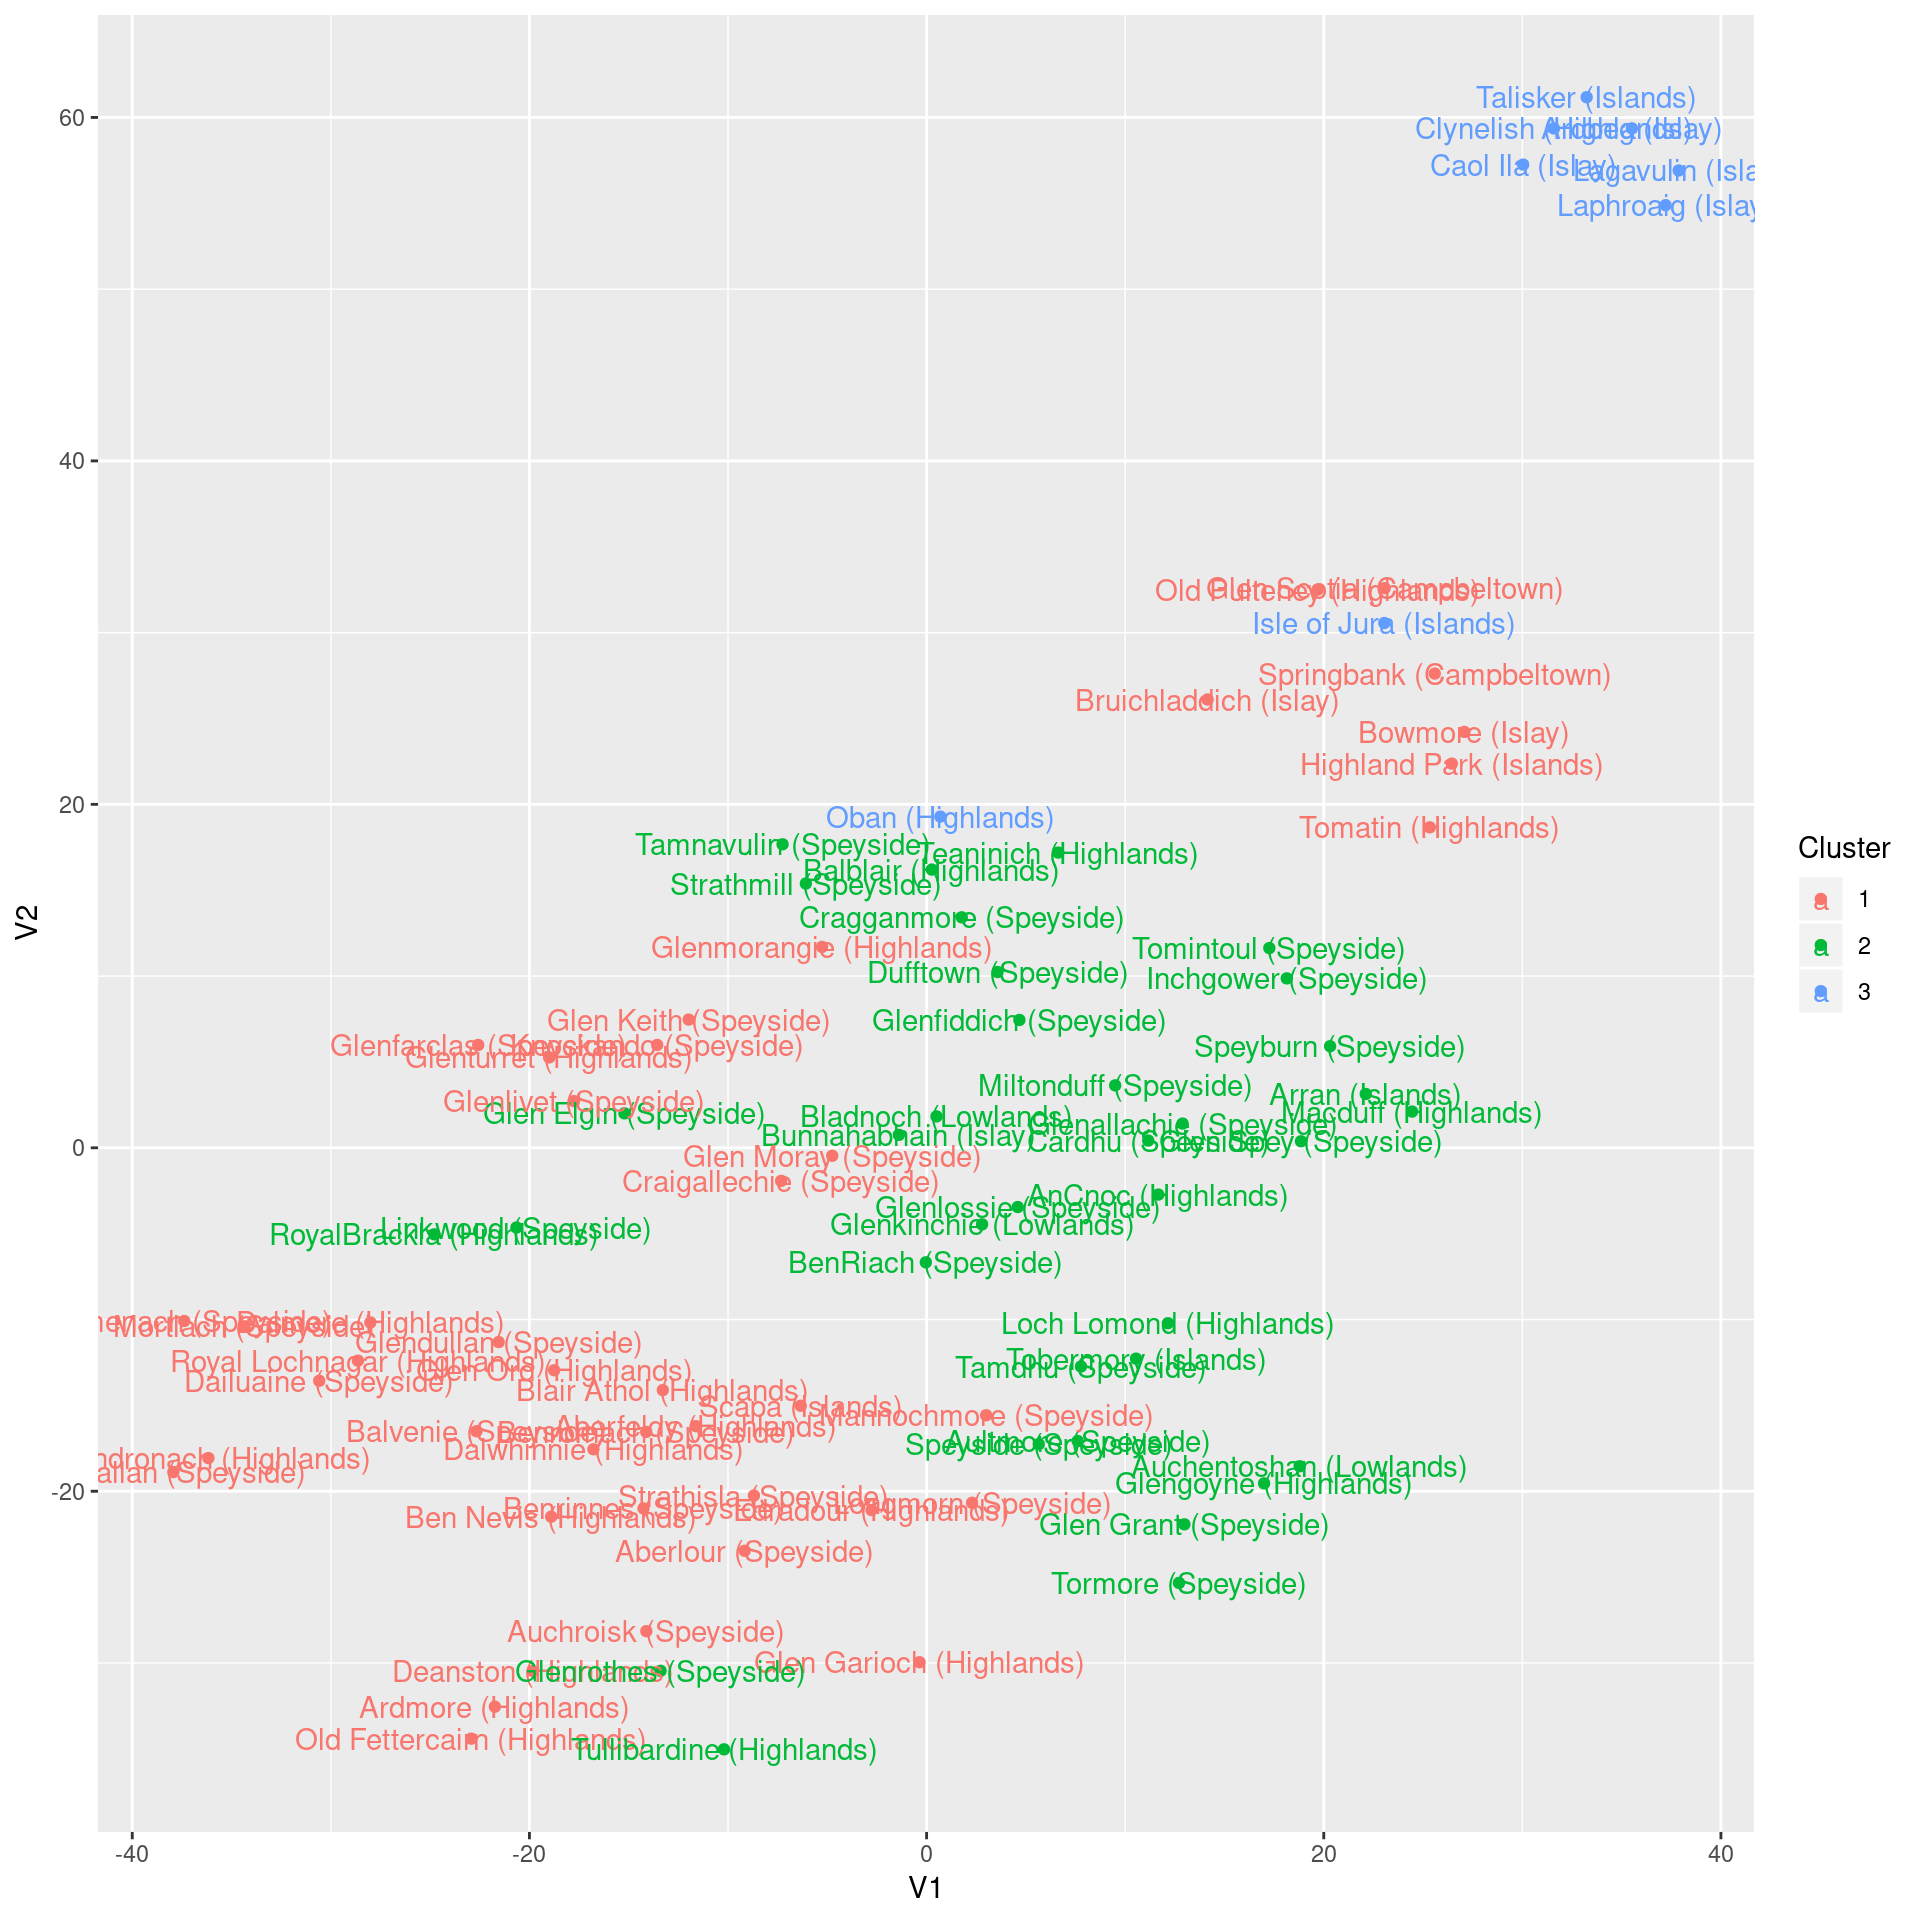
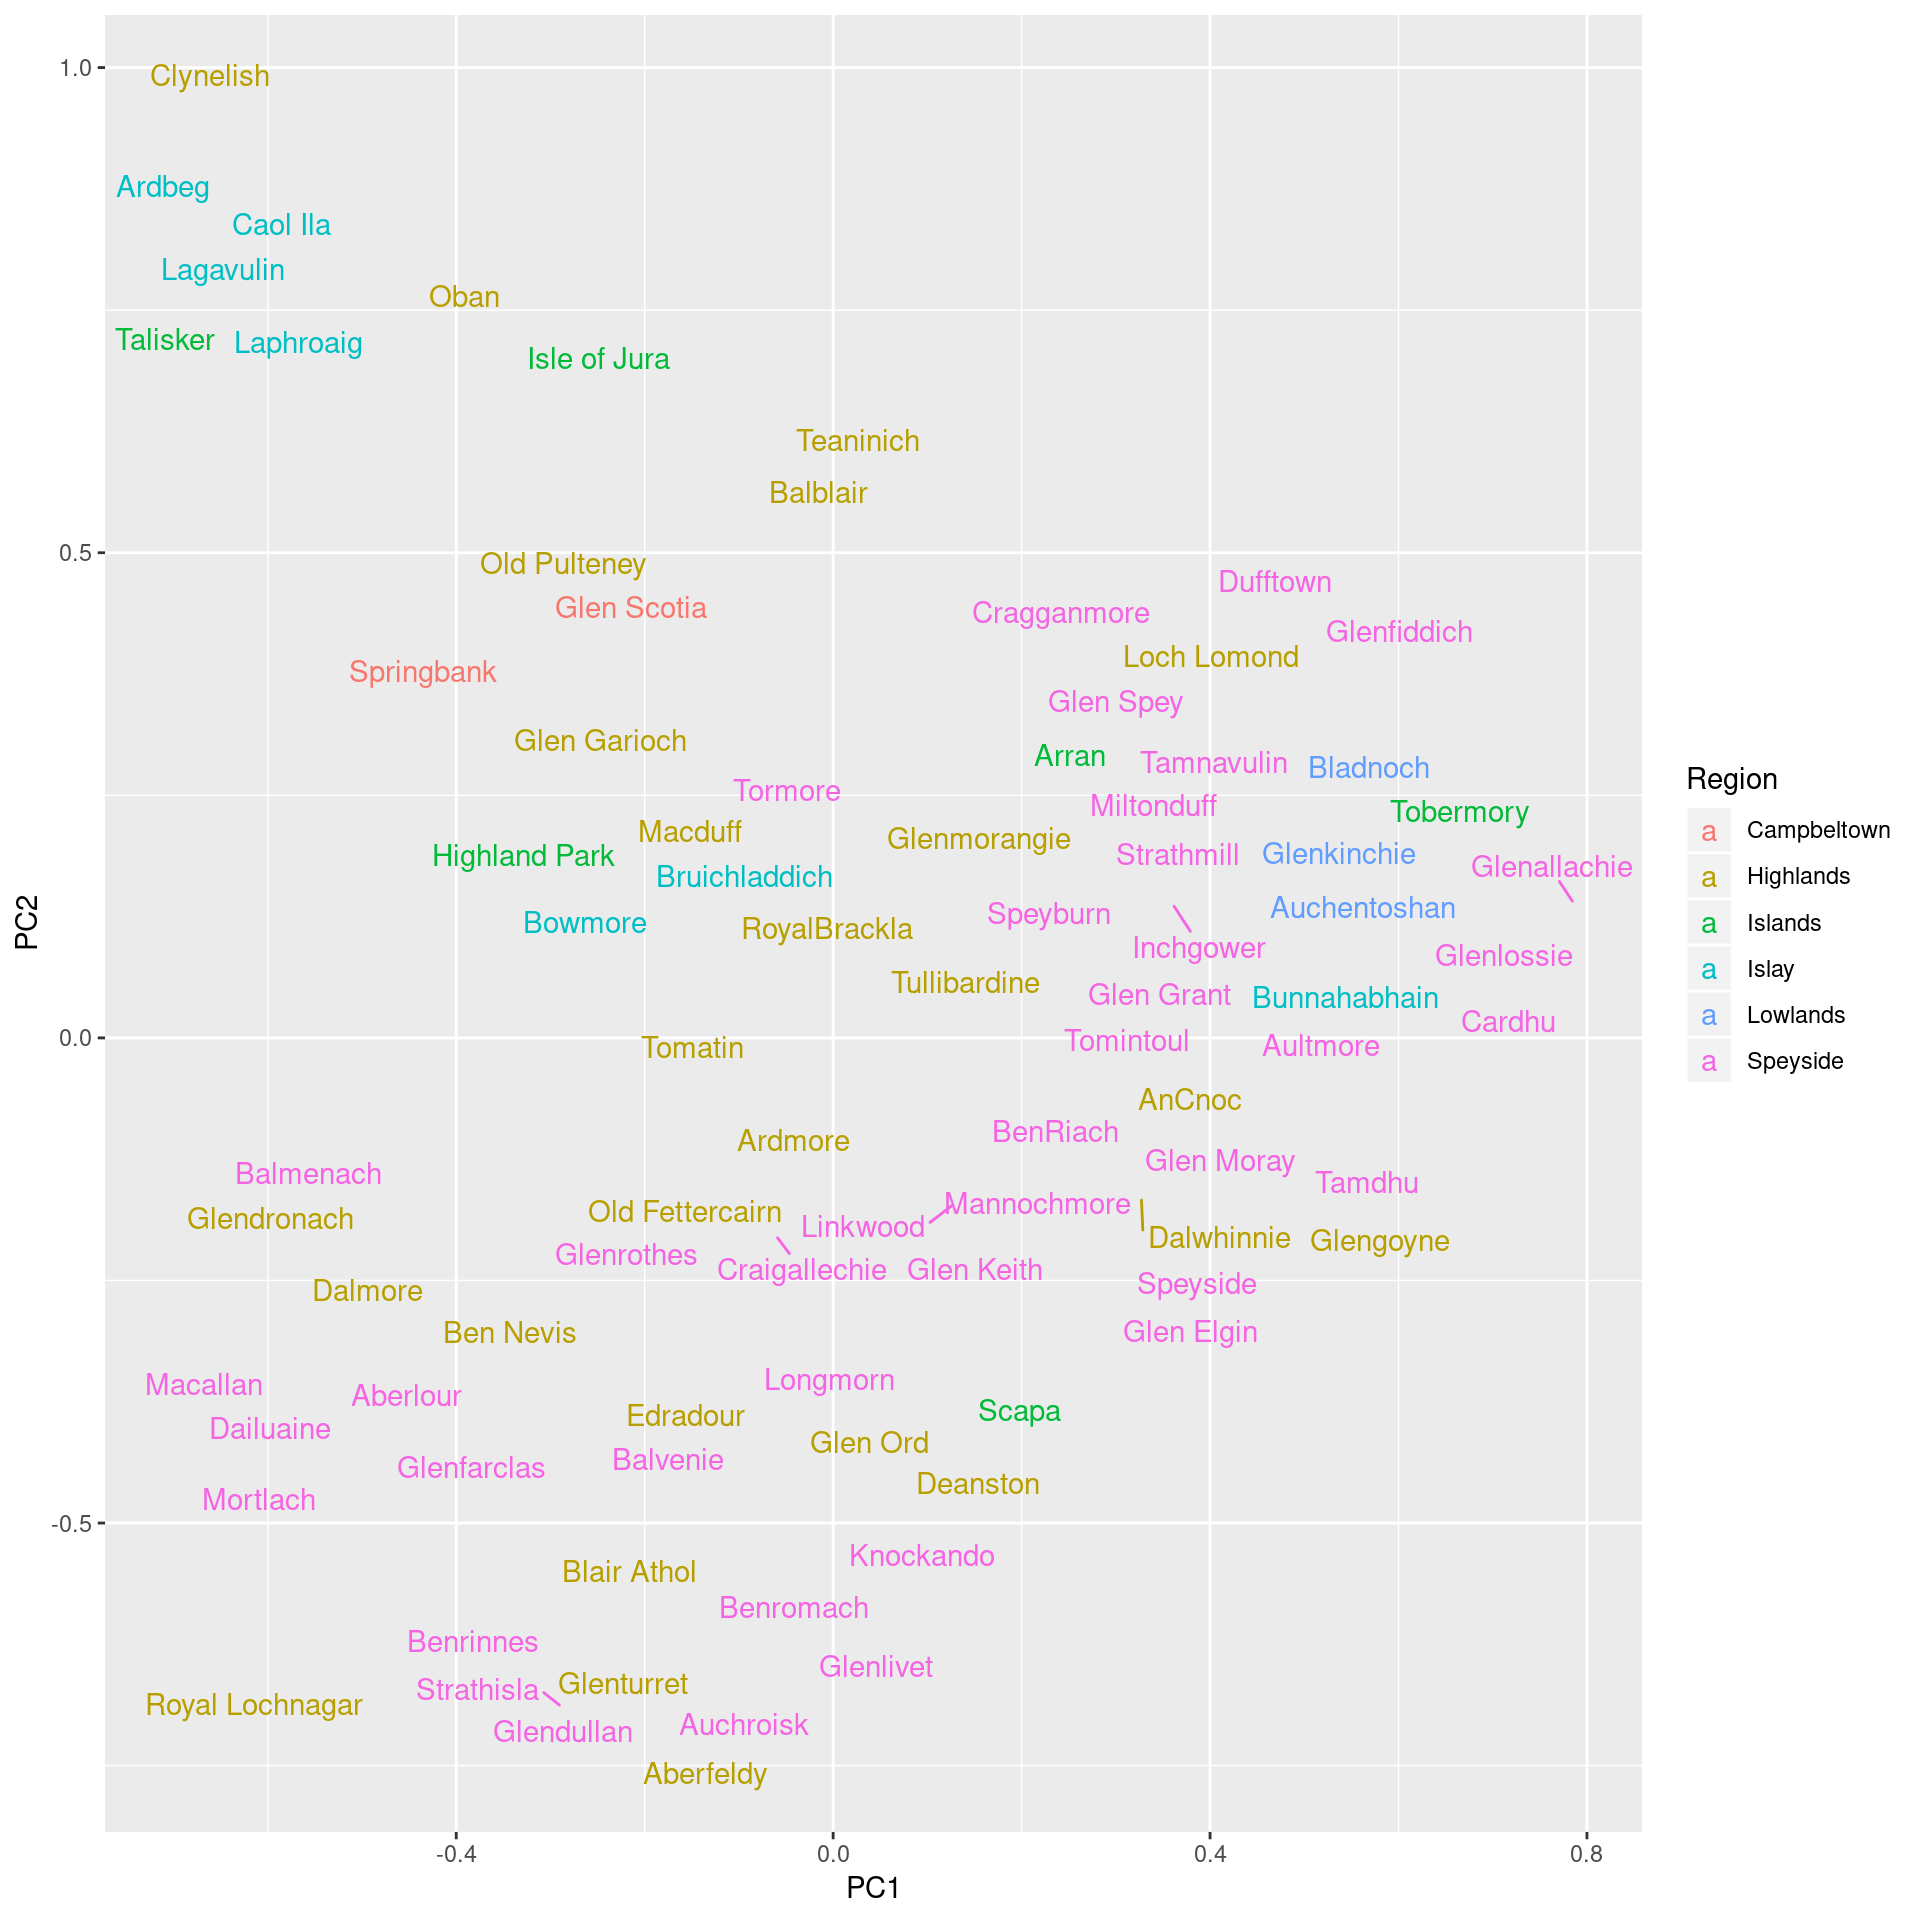
update on dim reduction

diff --git a/content/post/machine-learning/dimensionality-reduction.html b/content/post/machine-learning/dimensionality-reduction.html
@@ -25,8 +25,7 @@ thumbnail: "/post/machine-learning/whiskey-twilight-zone.png"
 <div id="loading-a-whiskey-data-set" class="section level2">
 <h2>Loading a whiskey data set</h2>
 <p>I have previously used a data set describing the characteristics of whiskeys to <a href="/post/data-visualization/radar-plot/">draw radar plots</a>. Here, we will the whiskey data set to identify how different dimensionality reduction techniques perform on this data set.</p>
-<pre class="r"><code>set.seed(1234) # reproducibility
-library(RCurl)
+<pre class="r"><code>library(RCurl)
 # load data as character
 f &lt;- getURL(&#39;https://www.datascienceblog.net/data-sets/whiskies.csv&#39;)
 # read table from text connection
@@ -106,7 +105,7 @@ p</code></pre>
 <p>PCA computes a rotation matrix <span class="math inline">\(W \in \mathbb{R}^{p \times p}\)</span> from the matrix of features <span class="math inline">\(X \in \mathbb{R}^{N \times p}\)</span>. <span class="math inline">\(W\)</span> can be understood as a mapping function that transforms the observations in <span class="math inline">\(X\)</span> to a rotated space. The coordinates of observations in <span class="math inline">\(X\)</span> are transformed to their new form, <span class="math inline">\(Z\)</span>, via</p>
 <p><span class="math display">\[Z = XW\,.\]</span></p>
 <p>The rotation matrix <span class="math inline">\(W\)</span> is constructed through orthogonal linear transformations. Each of these transformations is performed such that it maximizes the variance in the unexplained variance in the data, resulting in individual <em>principal components</em>, which provide a new coordinate system.</p>
-<p>The reason why PCA is so popular is that it is very interpretable.</p>
+<p>One of the reasons why PCA is so popular is that it is a very interpretable method. Each principal component (PC) is well-defined as we know that it is a dimension orthogonal to the other dimensions. Since PCA maximizes the variance with each PC, we can obtain the variance that is explained by each PC in order to select an appropriate number of dimensions.</p>
 <div id="results-of-pca" class="section level3">
 <h3>Results of PCA</h3>
 <p>Using PCA, I would assign three clusters to the data:</p>
@@ -159,11 +158,35 @@ print(cluster.df)</code></pre>
 <p>In KPCA, observations are transformed to a kernel matrix via</p>
 <p><span class="math display">\[K = k(x,y) = \phi(x)^T \phi(y)\]</span></p>
 <p>where <span class="math inline">\(k(x,y)\)</span> is the kernel function for observations <span class="math inline">\(x\)</span> and <span class="math inline">\(y\)</span> and <span class="math inline">\(\phi\)</span> is the corresponding function that maps the observations into reproducing kernel Hilbert space and does not need to be explicitly computed due to the <em>kernel trick</em>. According to the kernel trick, we just need to compute the kernel function.</p>
+<div id="using-kpca-in-r" class="section level3">
+<h3>Using KPCA in R</h3>
+<p>The <code>kpca</code> is made available through the <code>kernlab</code> package. By default, the radial basis function kernel is used for matrix input. It is defined by</p>
+<p><span class="math display">\[K (x, y) = \exp \left(- \frac{-||x − t||^2}{2 \sigma^2}\right)\]</span></p>
+<p>where <span class="math inline">\(\sigma\)</span> is the inverse kernel width.</p>
+<pre class="r"><code>library(kernlab) # for kpca function
+# use the default of sigma = 0.1 because it works well
+pca.k &lt;- kpca(as.matrix(data), kpar = list(sigma = 0.1))
+plot(pca.k@eig) # eigenvalues</code></pre>
+<p><img src="/post/machine-learning/dimensionality-reduction_files/figure-html/unnamed-chunk-6-1.png" width="672" /></p>
+<pre class="r"><code># select 20 dimensions for prediction according to eigenvalues
+n.dim.model &lt;- 20
+pc &lt;- pca.k@pcv</code></pre>
+<p>Let us plot the data:</p>
+<pre class="r"><code>library(ggrepel) # for geom_text_repel
+kpca.df &lt;- data.frame(&quot;Label&quot; = df$Distillery, &quot;Region&quot; = df$Region,
+                      &quot;PC1&quot; = pc[,1], &quot;PC2&quot; = pc[,2])
+ggplot(kpca.df, aes(label = Label, x = PC1, y = PC2, color = Region)) + 
+    geom_text_repel()</code></pre>
+<p><img src="/post/machine-learning/dimensionality-reduction_files/figure-html/unnamed-chunk-7-1.png" width="960" /></p>
+<p>In terms of the visualization, the results are similar to what we obtained with conventional PCA. The whiskeys from Islay are well-separated and we can see a cluster of Speyside whiskeys, while the Highlands whiskeys are rather spread throughout.</p>
+<p>A disdavantage of KPCA is that you need to deal with the hyperparameters of the kernel functions, which should be tuned in accordance with the data. Moreover, KPCA is not as interpretable as PCA because it is not possible to determine how much variance is explained by individual dimensions.</p>
+</div>
 </div>
 <div id="t-sne" class="section level2">
 <h2>t-SNE</h2>
 <p>t-SNE can be performed in the following way:</p>
 <pre class="r"><code>library(Rtsne)
+set.seed(1234) # reproducibility
 tsne &lt;- Rtsne(data, dims = 2, perplexity = 5)
 t.df &lt;- as.data.frame(tsne$Y)
 colnames(t.df) &lt;- c(&quot;V1&quot;, &quot;V2&quot;)
@@ -171,7 +194,7 @@ t.df &lt;- cbind(t.df, Cluster = factor(cl$clustering))
 t.df$Distillery &lt;- rownames(t.df)
 ggplot(t.df, aes(x = V1, y = V2, color = Cluster, label = Distillery)) +
     geom_point() + geom_text()</code></pre>
-<p><img src="/post/machine-learning/dimensionality-reduction_files/figure-html/unnamed-chunk-6-1.png" width="960" /></p>
+<p><img src="/post/machine-learning/dimensionality-reduction_files/figure-html/unnamed-chunk-8-1.png" width="960" /></p>
 <p>The result is a bit more clearer with t-SNE than with PCA and the two dimensions have slightly different interpretations than with PCA:</p>
 <ul>
 <li>V1 seems to indicate how balanced/intense the taste is. The outliers here are the smoky Islay whiskeys on the left (e.g. Lagavulin) as well as some of the richer Highland whiskeys on the right (e.g. Macallan). The whiskeys in the middle such as Glenfiddich have a very balanced taste profile.</li>
@@ -211,6 +234,7 @@ select.k &lt;- function(K, training.data, test.data, labels, test.labels) {
     k.sel &lt;- K[which.max(performance)]
     return(k.sel)
 }
+set.seed(1234) # reproducibility
 samp.train &lt;- sample(nrow(data), nrow(data)*0.50) # 50 % for training
 df.train &lt;- data[samp.train,,]
 # 25% for validation
@@ -222,13 +246,14 @@ df.val &lt;- data[samp.val, ]</code></pre>
 <pre class="r"><code># PCA on training data
 # NB: scale is FALSE since all variables are on the same scale
 pca &lt;- prcomp(df.train, retx=TRUE, center = TRUE, scale = FALSE) 
+# find explained variance per PC:
 expl.var &lt;- round(pca$sdev^2/sum(pca$sdev^2)*100)
 var.df &lt;- data.frame(&quot;N_dim&quot; = seq_along(expl.var), &quot;Cum_Var&quot; = cumsum(expl.var))
 # cumulative explained variance:
 print(t(var.df))</code></pre>
 <pre><code>##         [,1] [,2] [,3] [,4] [,5] [,6] [,7] [,8] [,9] [,10] [,11] [,12]
 ## N_dim      1    2    3    4    5    6    7    8    9    10    11    12
-## Cum_Var   24   45   57   66   74   81   87   91   94    96    98    99</code></pre>
+## Cum_Var   22   41   52   63   72   79   85   90   94    97    99   100</code></pre>
 <pre class="r"><code># select 3 dimensions (&gt; 50% variance is sufficient)
 n.dims &lt;- 3
 # transform all data using PCA projection from training data
@@ -248,7 +273,7 @@ test.preds.pca &lt;- knn(train = df.train.p, test = df.test.p,
 accuracy.pca.knn &lt;- get.accuracy(test.preds.pca, df[samp.test, &quot;Region&quot;])
 print(paste0(&quot;PCA+KNN accuracy for k = &quot;, k.sel.pca, &quot; is: &quot;, 
              round(accuracy.pca.knn, 3)))</code></pre>
-<pre><code>## [1] &quot;PCA+KNN accuracy for k = 4 is: 0.429&quot;</code></pre>
+<pre><code>## [1] &quot;PCA+KNN accuracy for k = 9 is: 0.571&quot;</code></pre>
 <p>Let us investigate whether the model that uses PCA outperforms the model based on the raw data:</p>
 <pre class="r"><code># compare with accuracy of non-PCA model
 k.sel &lt;- select.k(K, df.train, df.val, df[samp.train, &quot;Region&quot;], 
@@ -258,8 +283,8 @@ test.preds &lt;- knn(train = df.train, test = df.test,
 accuracy.knn &lt;- get.accuracy(test.preds, df[samp.test, &quot;Region&quot;])
 print(paste0(&quot;KNN accuracy for k = &quot;, k.sel, &quot; is: &quot;,
              round(accuracy.knn, 3)))</code></pre>
-<pre><code>## [1] &quot;KNN accuracy for k = 10 is: 0.476&quot;</code></pre>
-<p>So, using <span class="math inline">\(k\)</span>-nearest neighbors, PCA does not seem to boost the prediction accuracy for this data set. This is because there are few features to begin with, so the dimensionality reduction does not help much. Moreover, there are few low-variance features in the data set (e.g. <code>Tobacco</code> or <code>Malty</code>):</p>
+<pre><code>## [1] &quot;KNN accuracy for k = 7 is: 0.524&quot;</code></pre>
+<p>So, using <span class="math inline">\(k\)</span>-nearest neighbors, PCA does indeem seem to boost the prediction accuracy for this data set although there are few features to begin with. However, there are some low-variance features in the data set (e.g. <code>Tobacco</code> or <code>Malty</code>):</p>
 <pre class="r"><code># variances of whiskeys characteristics
 print(diag(var(data)))</code></pre>
 <pre><code>##      Body Sweetness     Smoky Medicinal   Tobacco     Honey     Spicy 
@@ -288,8 +313,12 @@ test.preds.pca &lt;- knn(train = df.train.p, test = df.test.p,
 accuracy.pca.knn &lt;- get.accuracy(test.preds.pca, labels[samp.test])
 print(paste0(&quot;PCA+KNN accuracy for k = &quot;, k.sel.pca, &quot; is: &quot;, 
              round(accuracy.pca.knn, 3)))</code></pre>
-<pre><code>## [1] &quot;PCA+KNN accuracy for k = 18 is: 0.429&quot;</code></pre>
-<p>With an accuracy of 42.9%, we can conclude that, it is indeed worthwhile to group the whiskey regions for which we have fewer samples.</p>
+<pre><code>## [1] &quot;PCA+KNN accuracy for k = 13 is: 0.619&quot;</code></pre>
+<p>With an accuracy of 61.9%, we can conclude that, it is indeed worthwhile to group the whiskey regions for which we have fewer samples.</p>
+</div>
+<div id="kpca-for-prediction" class="section level3">
+<h3>KPCA for Prediction</h3>
+<pre class="r"><code>W &lt;- pca.k@rotated # the transformed input matrix</code></pre>
 </div>
 </div>
 <div id="summary" class="section level2">

diff --git a/content/blogroll.md b/content/blogroll.md
@@ -16,8 +16,8 @@ disable_comments: false
 * [Cross Validated](https://stats.stackexchange.com): probably the largest forum for discussing anything related to statistics and machine learning
 * [Data Camp](https://www.datacamp.com): a great resource for training in data science
 * [Data Science Reader](https://rushter.com/dsreader/): an aggregator for data science content
-* [DataTau](http://www.datatau.com/]): a data science forum
-
+* [DataTau](http://www.datatau.com/): a data science forum
+* [Analisted](https://www.analisted.com): a data science aggregator
 
 ## R
 
@@ -41,5 +41,6 @@ develOverflow
 ## Other
 
 * [Awesome Blogdown](https://awesome-blogdown.com/): A curated list of static websuites built using the blogdown R package
+* [rbind](https://support.rbind.io/): A network of R bloggers
 
 Is your favorite resource for data science missing? Let me know in the comments!
